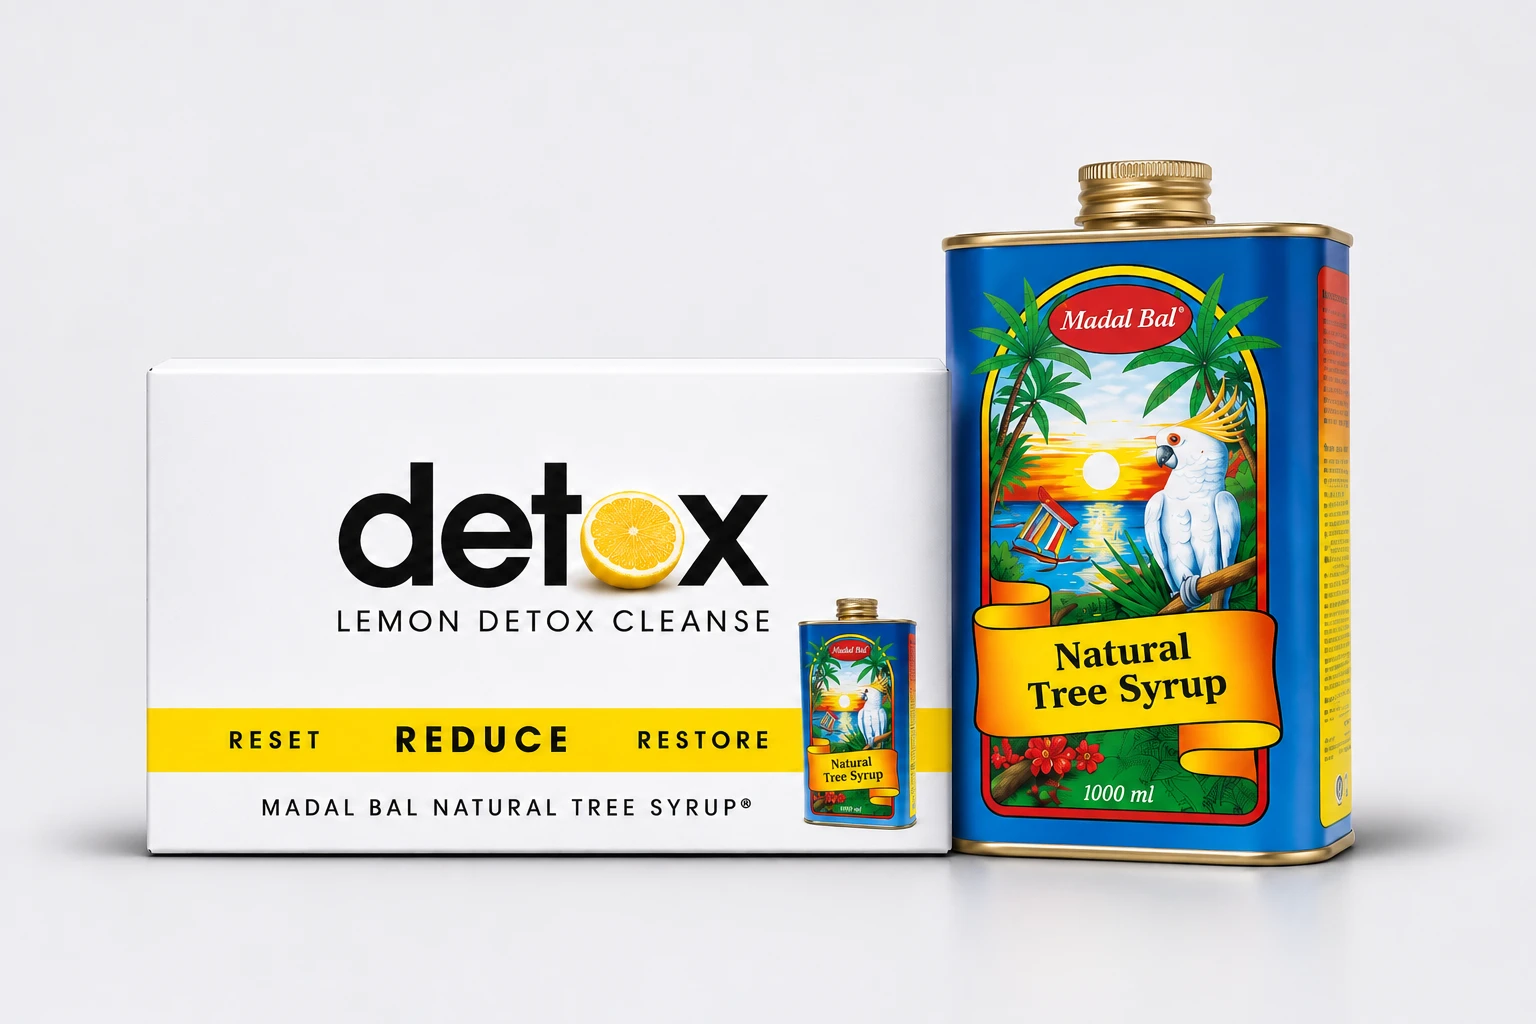
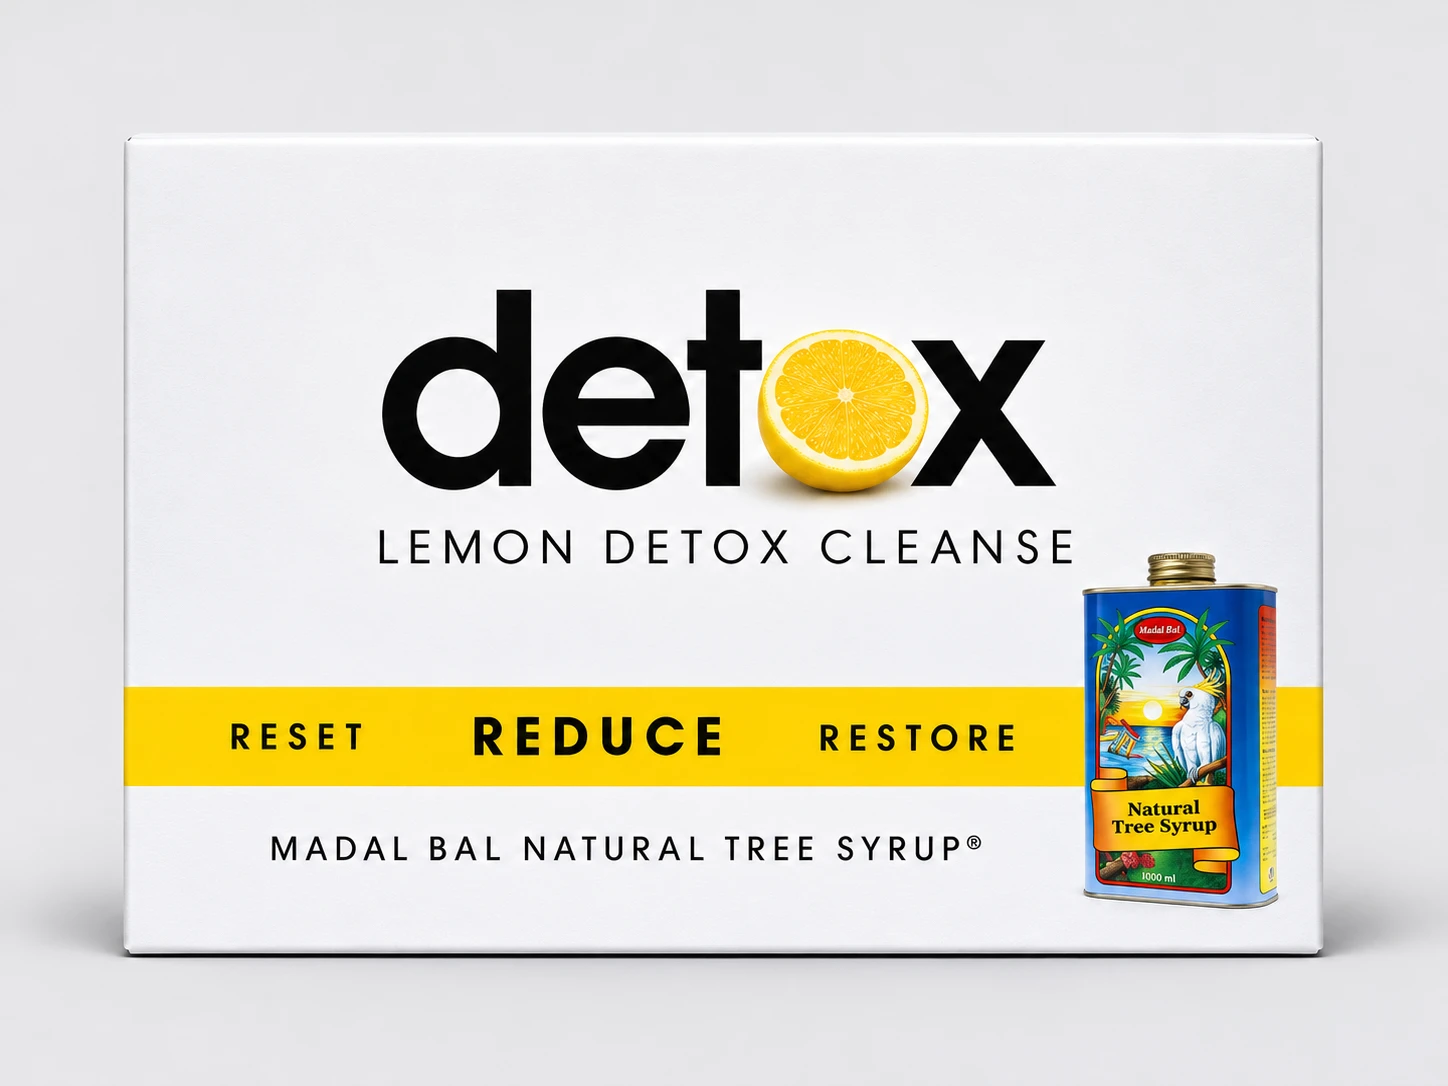
New photos for Madal Bal, bee pollen and both books
Claude-Session: https://claude.ai/code/session_01Gp7GBATVd5h86AREu6c4Ax

diff --git a/src/data/shop.ts b/src/data/shop.ts
@@ -159,7 +159,7 @@ export const shop: ShopItem[] = [
       facts: [['Author', 'K.A. Beyer'], ['Format', 'Paperback'], ['Best for', 'Anyone doing the cleanse'], ['Included in', 'Every Reset Box']],
       inBox: true,
       related: ['lemon-book', 'madal-bal', 'bee-pollen'],
-    }, name: 'The Lemon Detox Diet Program', category: 'books', image: 'lemon-detox-diet-book', size: 'Book · K.A. Beyer', price: 18.95, checkout: site.checkout.shop?.['lemon-detox-book'],
+    }, name: 'The Lemon Detox Diet Program', category: 'books', image: 'lemon-detox-diet-book', photo: true, size: 'Book · K.A. Beyer', price: 18.95, checkout: site.checkout.shop?.['lemon-detox-book'],
     blurb: 'The original program book by K.A. Beyer — the background to the cleanse, how it works and how to follow it.' },
   { id: 'lemon-book',
     slug: 'the-lemon-book',
@@ -183,7 +183,7 @@ export const shop: ShopItem[] = [
         'Tips to reduce water retention',
       ] },
       related: ['lemon-detox-book', 'bee-pollen', 'madal-bal'],
-    }, name: 'The Lemon Book', category: 'books', image: 'the-lemon-book', size: 'Book · Ray Collins', price: 20.95, checkout: site.checkout.shop?.['lemon-book'],
+    }, name: 'The Lemon Book', category: 'books', image: 'the-lemon-book', photo: true, size: 'Book · Ray Collins', price: 20.95, checkout: site.checkout.shop?.['lemon-book'],
     blurb: 'A handy guide to the many everyday uses of the humble lemon — in the kitchen and around the home.' },
 
   { id: 'bee-pollen',
@@ -214,7 +214,7 @@ export const shop: ShopItem[] = [
       ] },
       warning: 'Not suitable for anyone allergic to bees, pollen or honey — in rare cases bee pollen can cause a severe allergic reaction. Not for children under 2. Enjoy after your cleanse, not during it.',
       related: ['lemon-book', 'madal-bal', 'lemon-detox-book'],
-    }, name: 'Pollen Power Bee Pollen', category: 'wellness', image: 'bee-pollen', price: 28, checkout: site.checkout.shop?.['bee-pollen-250'],
+    }, name: 'Pollen Power Bee Pollen', category: 'wellness', image: 'bee-pollen', photo: true, price: 28, checkout: site.checkout.shop?.['bee-pollen-250'],
     blurb: 'Pure bee pollen granules. Sprinkle over breakfast, smoothies or yoghurt.',
     note: 'Not suitable for anyone with bee, pollen or honey allergies. Best enjoyed after your cleanse, not during it.',
     variants: [
